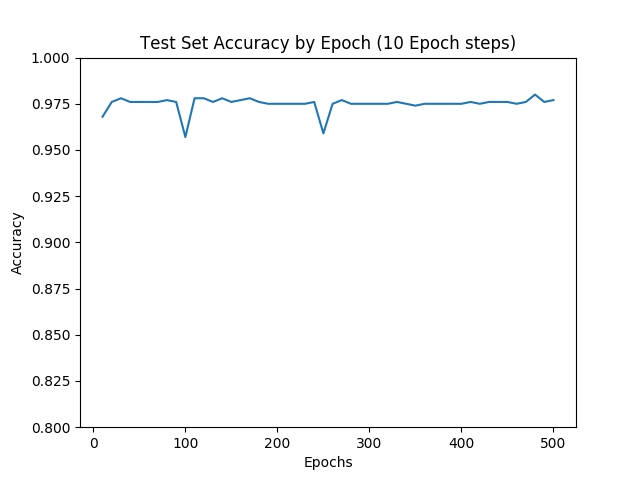
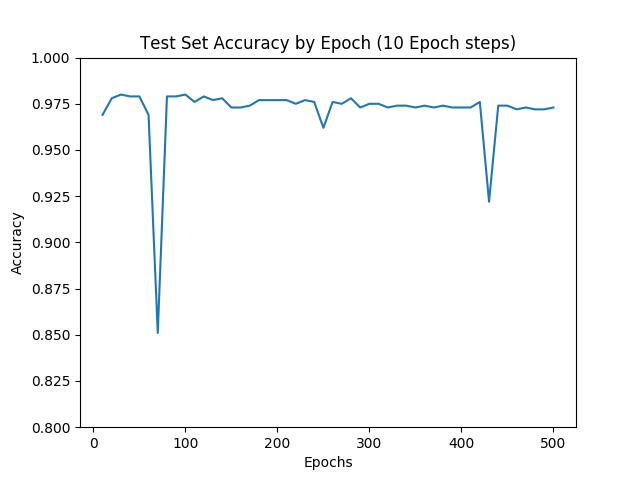
Added bias and recreated epoch diagram

Changed region(s): [[0.1562, 0.1875, 0.5625, 0.6875], [0.5938, 0.1875, 0.875, 0.4062]]

diff --git a/src/model/logistic_regression.py b/src/model/logistic_regression.py
@@ -45,7 +45,7 @@ class LogisticRegression(Classifier):
         self.testSet = test
 
         # Initialize the weight vector with small values
-        self.weight = 0.01*np.random.randn(self.trainingSet.input.shape[1])
+        self.weight = 0.01*np.random.randn(self.trainingSet.input.shape[1] + 1)
 
     def train(self, verbose=True):
         """Train the Logistic Regression.
@@ -68,9 +68,10 @@ class LogisticRegression(Classifier):
             grad = 0
             for input, label in zip(self.trainingSet.input,
                                     self.trainingSet.label):
-                output = self.fire(input)
+                augmentedInput = self.augment(input)
+                output = self.fire(augmentedInput)
                 totalError += loss.calculateError(label, output)
-                grad += (-label + output) * input
+                grad += (-label + output) * augmentedInput
             self.updateWeights(grad)
             iteration += 1
 
@@ -81,6 +82,9 @@ class LogisticRegression(Classifier):
                 # stop criteria is reached
                 learned = True
 
+
+    def augment(self, instance):
+        return np.append(instance, 1)
 
     def classify(self, testInstance):
         """Classify a single instance.
@@ -94,7 +98,7 @@ class LogisticRegression(Classifier):
         bool :
             True if the testInstance is recognized as a 7, False otherwise.
         """
-        return self.fire(testInstance) >= 0.5
+        return self.fire(self.augment(testInstance)) >= 0.5
 
     def evaluate(self, test=None):
         """Evaluate a whole dataset.
